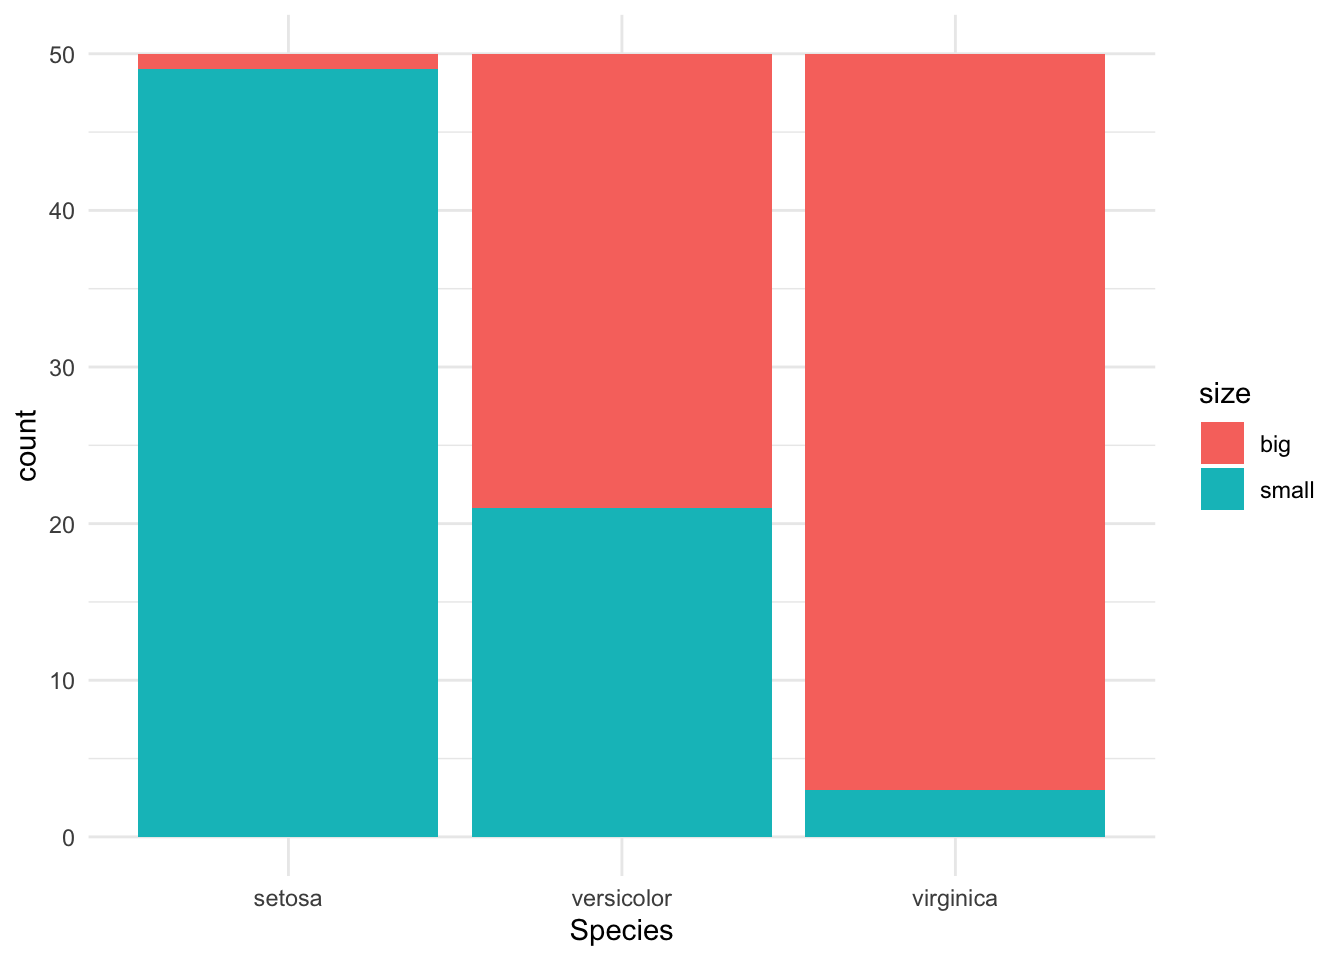
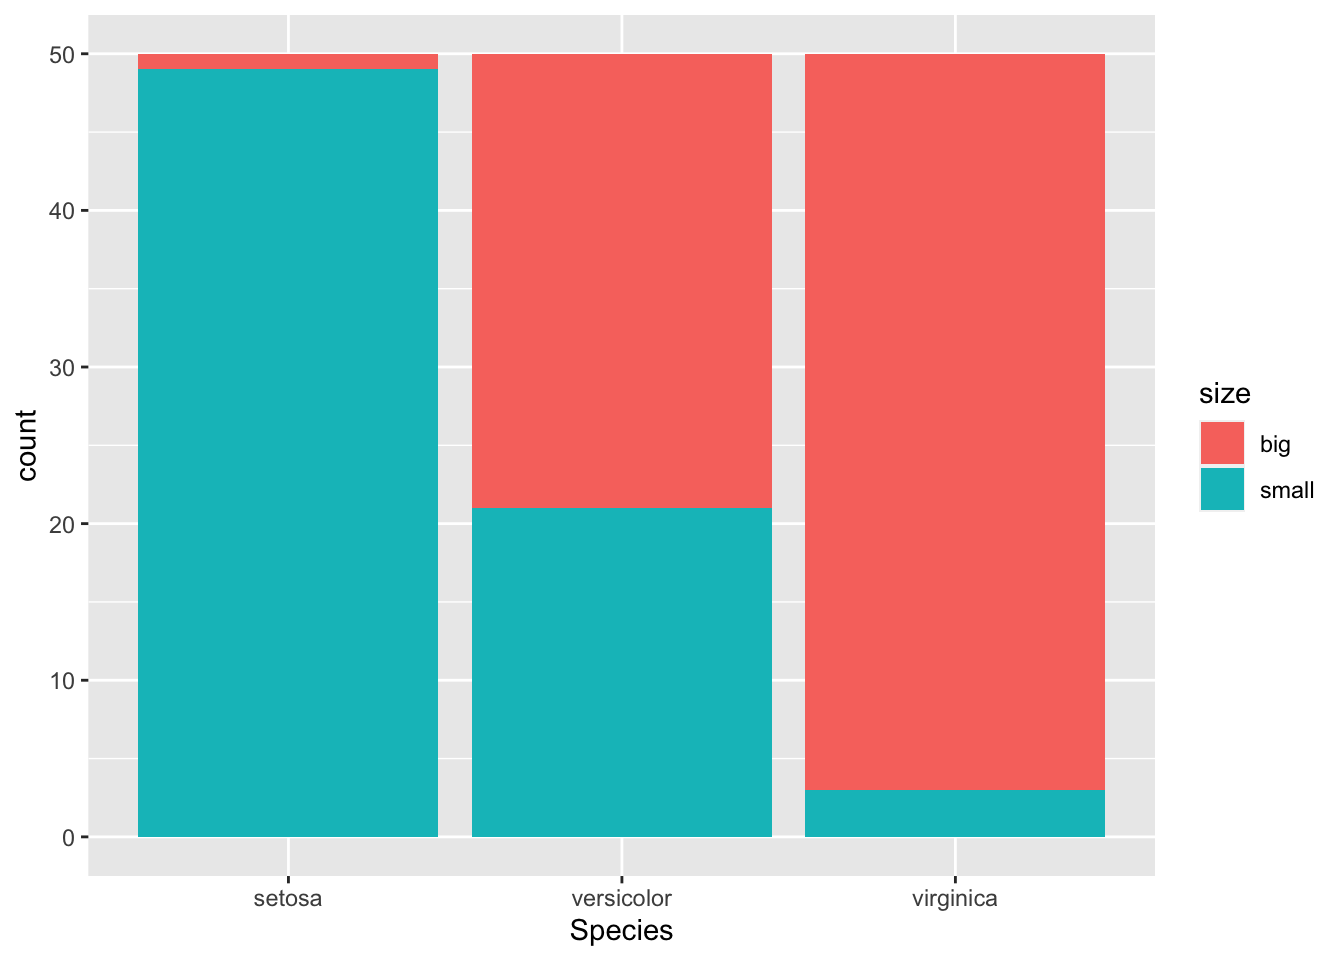
edit post

Changed region(s): [[0.0625, 0.0, 0.875, 0.9375]]

diff --git a/content/blog/chi-square-test-of-independence-in-r.html b/content/blog/chi-square-test-of-independence-in-r.html
@@ -44,6 +44,7 @@ output:
 <h1>Data</h1>
 <p>For our example, let’s reuse the dataset introduced in the article “<a href="/blog/descriptive-statistics-in-r/">Descriptive statistics in R</a>”. This dataset is the well-known <code>iris</code> dataset slightly enhanced. Since there is only one categorical variable and the Chi-square test requires two categorical variables, we add the variable <code>size</code> which corresponds to <code>small</code> if the length of the petal is smaller than the median of all flowers, <code>big</code> otherwise:</p>
 <pre class="r"><code>dat &lt;- iris
+
 dat$size &lt;- ifelse(dat$Sepal.Length &lt; median(dat$Sepal.Length),
   &quot;small&quot;, &quot;big&quot;
 )</code></pre>
@@ -60,10 +61,14 @@ dat$size &lt;- ifelse(dat$Sepal.Length &lt; median(dat$Sepal.Length),
 
 ggplot(dat) +
   aes(x = Species, fill = size) +
-  geom_bar() +
-  scale_fill_hue() +
-  theme_minimal()</code></pre>
+  geom_bar()</code></pre>
 <p><img src="/blog/chi-square-test-of-independence-in-r_files/figure-html/unnamed-chunk-3-1.png" width="100%" style="display: block; margin: auto;" /></p>
+<p>If you prefer to visualize it in terms of proportions (so that bars all have a height of 1, or 100%):</p>
+<pre class="r"><code>ggplot(dat) +
+  aes(x = Species, fill = size) +
+  geom_bar(position = &quot;fill&quot;)</code></pre>
+<p><img src="/blog/chi-square-test-of-independence-in-r_files/figure-html/unnamed-chunk-4-1.png" width="100%" style="display: block; margin: auto;" /></p>
+<p>This second barplot is particularly useful if there are a different number of observations in each level of the variable drawn on the x-axis because it allows to compare the two variables on the same ground.</p>
 <p>See the article “<a href="/blog/graphics-in-r-with-ggplot2/">Graphics in R with ggplot2</a>” to learn how to create this kind of barplot in <code>{ggplot2}</code>.</p>
 </div>
 <div id="chi-square-test-of-independence-in-r" class="section level1">
@@ -76,7 +81,15 @@ test</code></pre>
 ## 
 ## data:  table(dat$Species, dat$size)
 ## X-squared = 86.035, df = 2, p-value &lt; 2.2e-16</code></pre>
-<p>Everything you need appears in this output: the title of the test, what variables have been used, the test statistic, the degrees of freedom and the <span class="math inline">\(p\)</span>-value of the test. You can also retrieve the <span class="math inline">\(\chi^2\)</span> test statistic and the <span class="math inline">\(p\)</span>-value with:</p>
+<p>Everything you need appears in this output:</p>
+<ul>
+<li>the title of the test,</li>
+<li>which variables have been used,</li>
+<li>the test statistic,</li>
+<li>the degrees of freedom and</li>
+<li>the <span class="math inline">\(p\)</span>-value of the test.</li>
+</ul>
+<p>You can also retrieve the <span class="math inline">\(\chi^2\)</span> test statistic and the <span class="math inline">\(p\)</span>-value with:</p>
 <pre class="r"><code>test$statistic # test statistic</code></pre>
 <pre><code>## X-squared 
 ##  86.03451</code></pre>
@@ -89,7 +102,12 @@ test</code></pre>
 <li>use the Fisher’s exact test</li>
 </ul>
 <p>The Fisher’s exact test does not require the assumption of a minimum of 5 expected counts. It can be applied in R thanks to the function <code>fisher.test()</code>. This test is similar to the Chi-square test in terms of hypothesis and interpretation of the results. Learn more about this test in this <a href="/blog/fisher-s-exact-test-in-r-independence-test-for-a-small-sample/">article</a> dedicated to this type of test.</p>
-<p>For your information, there are two other methods to perform the Chi-square test of independence. One with the <code>summary()</code> function and one with the <code>assocstats()</code> function from the <code>{vcd}</code> package:</p>
+<p>For your information, there are three other methods to perform the Chi-square test of independence in R:</p>
+<ol style="list-style-type: decimal">
+<li>with the <code>summary()</code> function</li>
+<li>with the <code>assocstats()</code> function from the <code>{vcd}</code> package</li>
+<li>with the <code>ctable()</code> function from the <code>{summarytools}</code> package</li>
+</ol>
 <pre class="r"><code># second method:
 summary(table(dat$Species, dat$size))</code></pre>
 <pre><code>## Number of cases in table: 150 
@@ -98,6 +116,7 @@ summary(table(dat$Species, dat$size))</code></pre>
 ##  Chisq = 86.03, df = 2, p-value = 2.079e-19</code></pre>
 <pre class="r"><code># third method:
 library(vcd)
+
 assocstats(table(dat$Species, dat$size))</code></pre>
 <pre><code>##                      X^2 df P(&gt; X^2)
 ## Likelihood Ratio 107.308  2        0
@@ -106,7 +125,115 @@ assocstats(table(dat$Species, dat$size))</code></pre>
 ## Phi-Coefficient   : NA 
 ## Contingency Coeff.: 0.604 
 ## Cramer&#39;s V        : 0.757</code></pre>
-<p>All three methods give the same results.</p>
+<pre class="r"><code>library(summarytools)
+library(dplyr)
+
+# fourth method:
+dat %$%
+  ctable(Species, size,
+    prop = &quot;r&quot;, chisq = TRUE, headings = FALSE
+  ) %&gt;%
+  print(
+    method = &quot;render&quot;,
+    style = &quot;rmarkdown&quot;,
+    footnote = NA
+  )</code></pre>
+<div class="container st-container">
+<table class="table table-bordered st-table st-table-bordered st-cross-table ">
+<thead>
+<tr>
+<th></th>
+<th colspan="8" align="center" class="st-protect-top-border">size</th>
+<th colspan="4"></th>
+</tr>
+<tr>
+<td align="center">
+<strong>Species</strong>
+</td>
+<th colspan="4" align="center">big</th>
+<th colspan="4" align="center">small</th>
+<th colspan="4" align="center">Total</th>
+</tr>
+</thead>
+<tbody>
+<tr>
+<td>
+<strong align="center">setosa</strong>
+</td>
+<td align="right" style="padding:0 0 0 15px;border-right:0;text-align:right">1</td>
+<td align="left" style="padding:0 1px 0 4px;border-left:0;border-right:0;text-align:left">(</td>
+<td align="left" style="padding:0;border-left:0;border-right:0;text-align:right">2.0%</td>
+<td align="left" style="padding:0 15px 0 1px;border-left:0;text-align:right">)</td>
+<td align="right" style="padding:0 0 0 15px;border-right:0;text-align:right">49</td>
+<td align="left" style="padding:0 1px 0 4px;border-left:0;border-right:0;text-align:left">(</td>
+<td align="left" style="padding:0;border-left:0;border-right:0;text-align:right">98.0%</td>
+<td align="left" style="padding:0 15px 0 1px;border-left:0;text-align:right">)</td>
+<td align="right" style="padding:0 0 0 15px;border-right:0;text-align:right">50</td>
+<td align="left" style="padding:0 1px 0 4px;border-left:0;border-right:0;text-align:left">(</td>
+<td align="left" style="padding:0;border-left:0;border-right:0;text-align:right">100.0%</td>
+<td align="left" style="padding:0 15px 0 1px;border-left:0;text-align:right">)</td>
+</tr>
+<tr>
+<td>
+<strong align="center">versicolor</strong>
+</td>
+<td align="right" style="padding:0 0 0 15px;border-right:0;text-align:right">29</td>
+<td align="left" style="padding:0 1px 0 4px;border-left:0;border-right:0;text-align:left">(</td>
+<td align="left" style="padding:0;border-left:0;border-right:0;text-align:right">58.0%</td>
+<td align="left" style="padding:0 15px 0 1px;border-left:0;text-align:right">)</td>
+<td align="right" style="padding:0 0 0 15px;border-right:0;text-align:right">21</td>
+<td align="left" style="padding:0 1px 0 4px;border-left:0;border-right:0;text-align:left">(</td>
+<td align="left" style="padding:0;border-left:0;border-right:0;text-align:right">42.0%</td>
+<td align="left" style="padding:0 15px 0 1px;border-left:0;text-align:right">)</td>
+<td align="right" style="padding:0 0 0 15px;border-right:0;text-align:right">50</td>
+<td align="left" style="padding:0 1px 0 4px;border-left:0;border-right:0;text-align:left">(</td>
+<td align="left" style="padding:0;border-left:0;border-right:0;text-align:right">100.0%</td>
+<td align="left" style="padding:0 15px 0 1px;border-left:0;text-align:right">)</td>
+</tr>
+<tr>
+<td>
+<strong align="center">virginica</strong>
+</td>
+<td align="right" style="padding:0 0 0 15px;border-right:0;text-align:right">47</td>
+<td align="left" style="padding:0 1px 0 4px;border-left:0;border-right:0;text-align:left">(</td>
+<td align="left" style="padding:0;border-left:0;border-right:0;text-align:right">94.0%</td>
+<td align="left" style="padding:0 15px 0 1px;border-left:0;text-align:right">)</td>
+<td align="right" style="padding:0 0 0 15px;border-right:0;text-align:right">3</td>
+<td align="left" style="padding:0 1px 0 4px;border-left:0;border-right:0;text-align:left">(</td>
+<td align="left" style="padding:0;border-left:0;border-right:0;text-align:right">6.0%</td>
+<td align="left" style="padding:0 15px 0 1px;border-left:0;text-align:right">)</td>
+<td align="right" style="padding:0 0 0 15px;border-right:0;text-align:right">50</td>
+<td align="left" style="padding:0 1px 0 4px;border-left:0;border-right:0;text-align:left">(</td>
+<td align="left" style="padding:0;border-left:0;border-right:0;text-align:right">100.0%</td>
+<td align="left" style="padding:0 15px 0 1px;border-left:0;text-align:right">)</td>
+</tr>
+<tr>
+<td>
+<strong align="center">Total</strong>
+</td>
+<td align="right" style="padding:0 0 0 15px;border-right:0;text-align:right">77</td>
+<td align="left" style="padding:0 1px 0 4px;border-left:0;border-right:0;text-align:left">(</td>
+<td align="left" style="padding:0;border-left:0;border-right:0;text-align:right">51.3%</td>
+<td align="left" style="padding:0 15px 0 1px;border-left:0;text-align:right">)</td>
+<td align="right" style="padding:0 0 0 15px;border-right:0;text-align:right">73</td>
+<td align="left" style="padding:0 1px 0 4px;border-left:0;border-right:0;text-align:left">(</td>
+<td align="left" style="padding:0;border-left:0;border-right:0;text-align:right">48.7%</td>
+<td align="left" style="padding:0 15px 0 1px;border-left:0;text-align:right">)</td>
+<td align="right" style="padding:0 0 0 15px;border-right:0;text-align:right">150</td>
+<td align="left" style="padding:0 1px 0 4px;border-left:0;border-right:0;text-align:left">(</td>
+<td align="left" style="padding:0;border-left:0;border-right:0;text-align:right">100.0%</td>
+<td align="left" style="padding:0 15px 0 1px;border-left:0;text-align:right">)</td>
+</tr>
+</tbody>
+<tfoot>
+<tr>
+<td colspan="100"><em><strong>&nbsp;&#935;<sup>2</sup></strong> = 86.0345&nbsp;&nbsp;&nbsp;<strong>df</strong> = 2&nbsp;&nbsp;&nbsp;<strong>p</strong> = .0000</em><br/>
+                            </td>
+</tr>
+</tfoot>
+</table>
+</div>
+<p>As you can see all four methods give the same results.</p>
 <p>If you do not have the same <em>p</em>-values with your data across the different methods, make sure to add the <code>correct = FALSE</code> argument in the <code>chisq.test()</code> function to prevent from applying the Yate’s continuity correction, which is applied by default in this method.<a href="#fn1" class="footnote-ref" id="fnref1"><sup>1</sup></a></p>
 </div>
 <div id="conclusion-and-interpretation" class="section level1">
@@ -118,11 +245,13 @@ assocstats(table(dat$Species, dat$size))</code></pre>
 <h1>Combination of plot and statistical test</h1>
 <p>I recently discovered the <code>mosaic()</code> function from the <code>{vcd}</code> package. This function has the advantage that it combines a <a href="/blog/descriptive-statistics-in-r/#mosaic-plot">mosaic plot</a> (to visualize a contingency table) and the result of the Chi-square test of independence:</p>
 <pre class="r"><code>library(vcd)
+
 mosaic(~ Species + size,
-       direction = c(&quot;v&quot;, &quot;h&quot;),
-       data = dat,
-       shade = TRUE)</code></pre>
-<p><img src="/blog/chi-square-test-of-independence-in-r_files/figure-html/unnamed-chunk-7-1.png" width="100%" style="display: block; margin: auto;" /></p>
+  direction = c(&quot;v&quot;, &quot;h&quot;),
+  data = dat,
+  shade = TRUE
+)</code></pre>
+<p><img src="/blog/chi-square-test-of-independence-in-r_files/figure-html/unnamed-chunk-9-1.png" width="100%" style="display: block; margin: auto;" /></p>
 <p>As you can see, the mosaic plot is similar to the barplot presented above, but the <em>p</em>-value of the Chi-square test is also displayed at the bottom right.</p>
 <p>Moreover, this mosaic plot with colored cases shows where the observed frequencies deviates from the expected frequencies if the variables were independent. The red cases means that the observed frequencies are <em>smaller</em> than the expected frequencies, whereas the blue cases means that the observed frequencies are <em>larger</em> than the expected frequencies.</p>
 <p>Thanks for reading. I hope the article helped you to perform the Chi-square test of independence in R and interpret its results. If you would like to learn how to do this test by hand and how it works, read the article “<a href="/blog/chi-square-test-of-independence-by-hand/">Chi-square test of independence by hand</a>”.</p>
